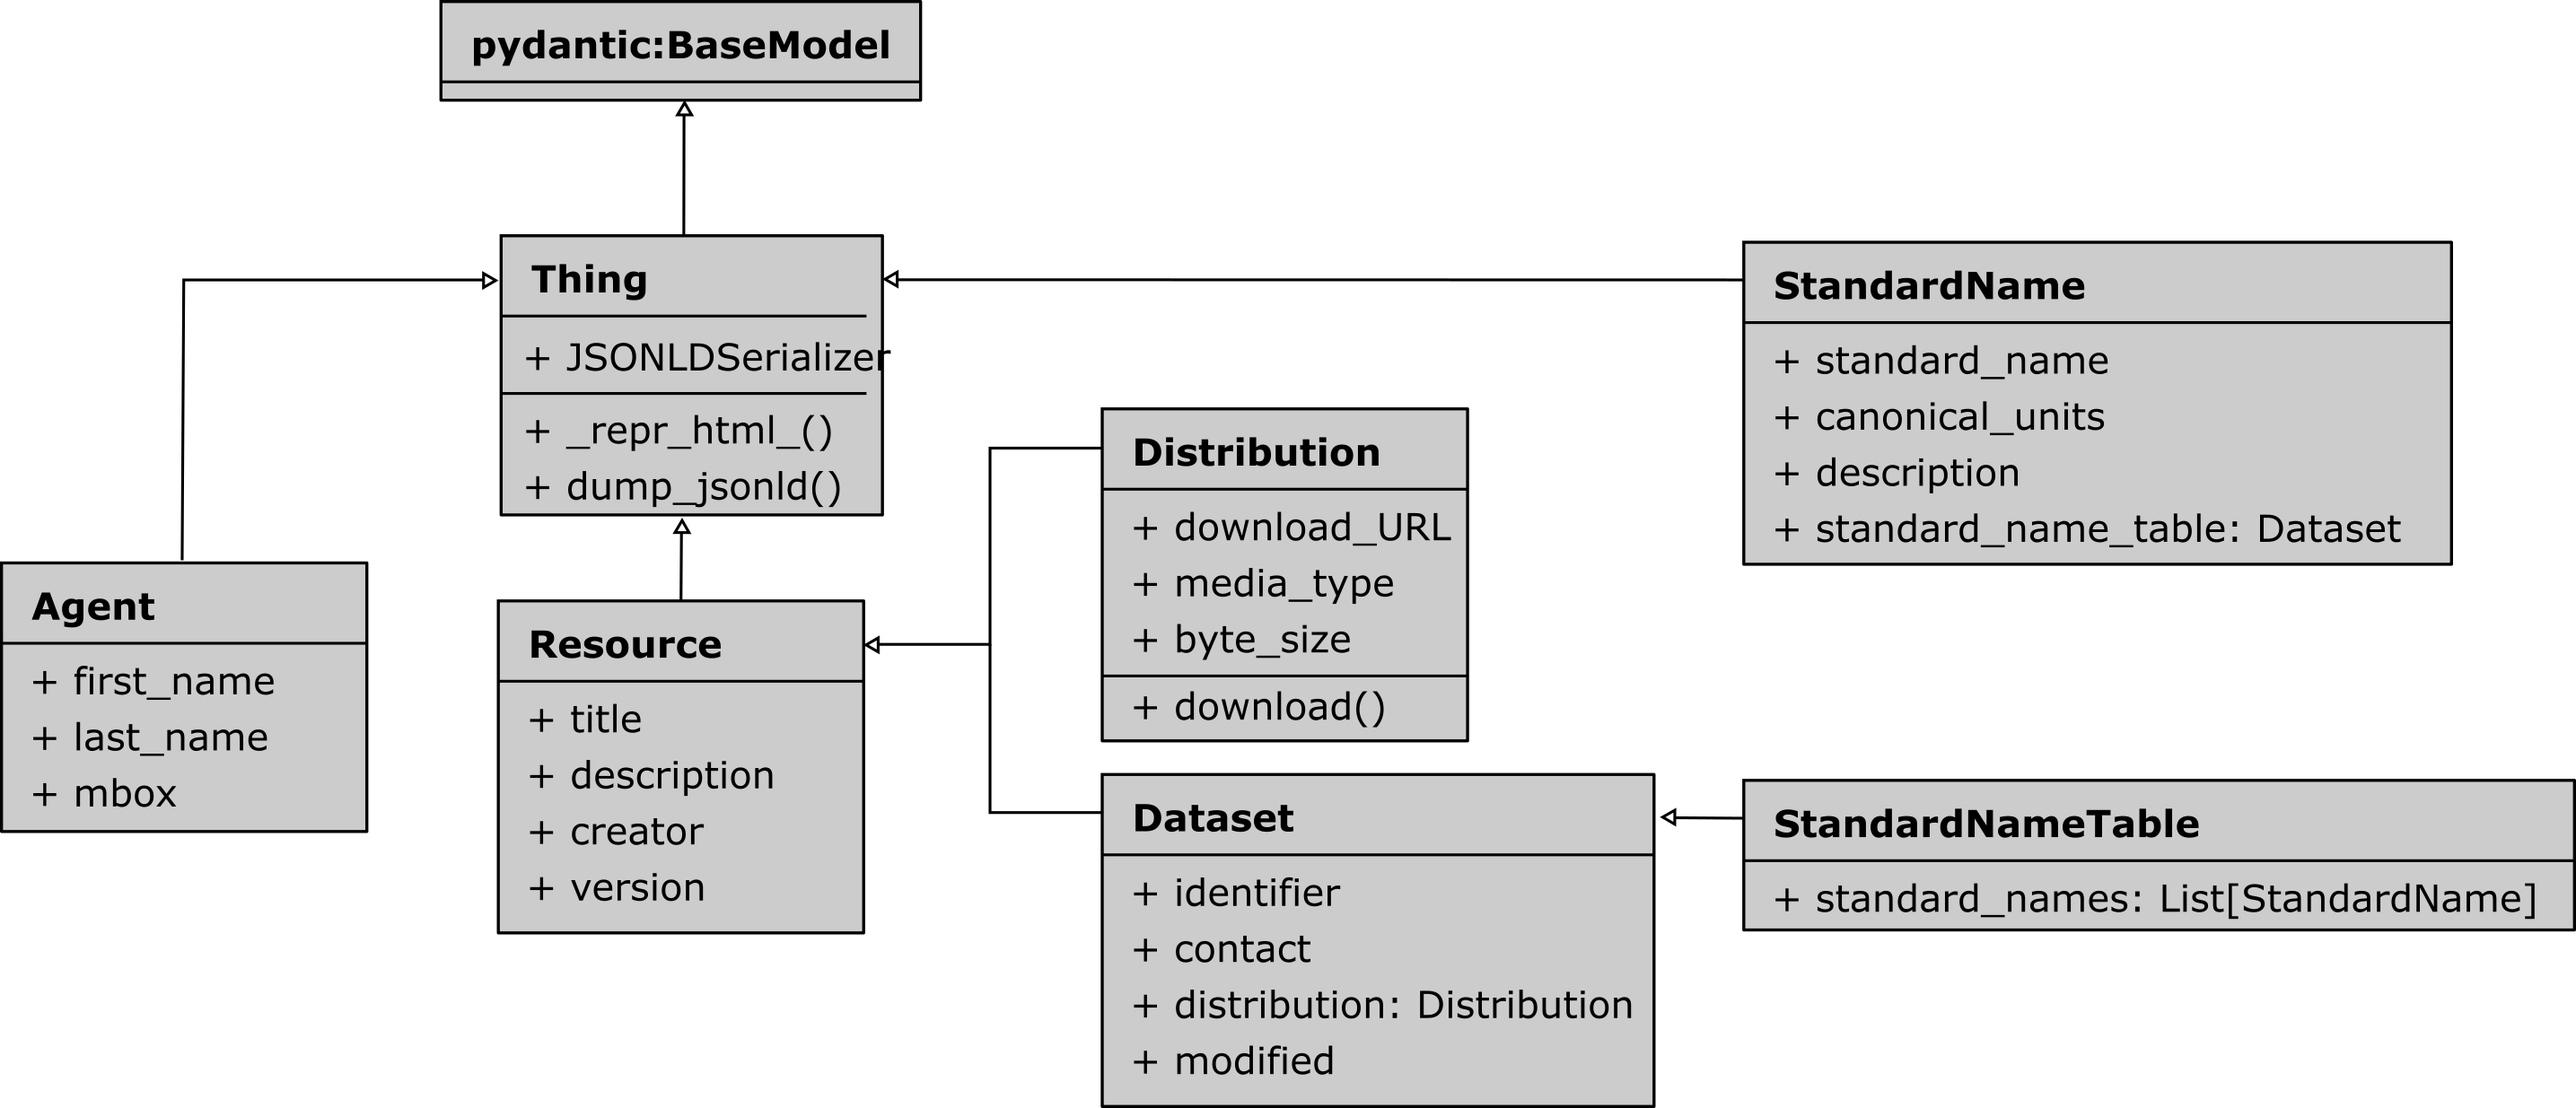
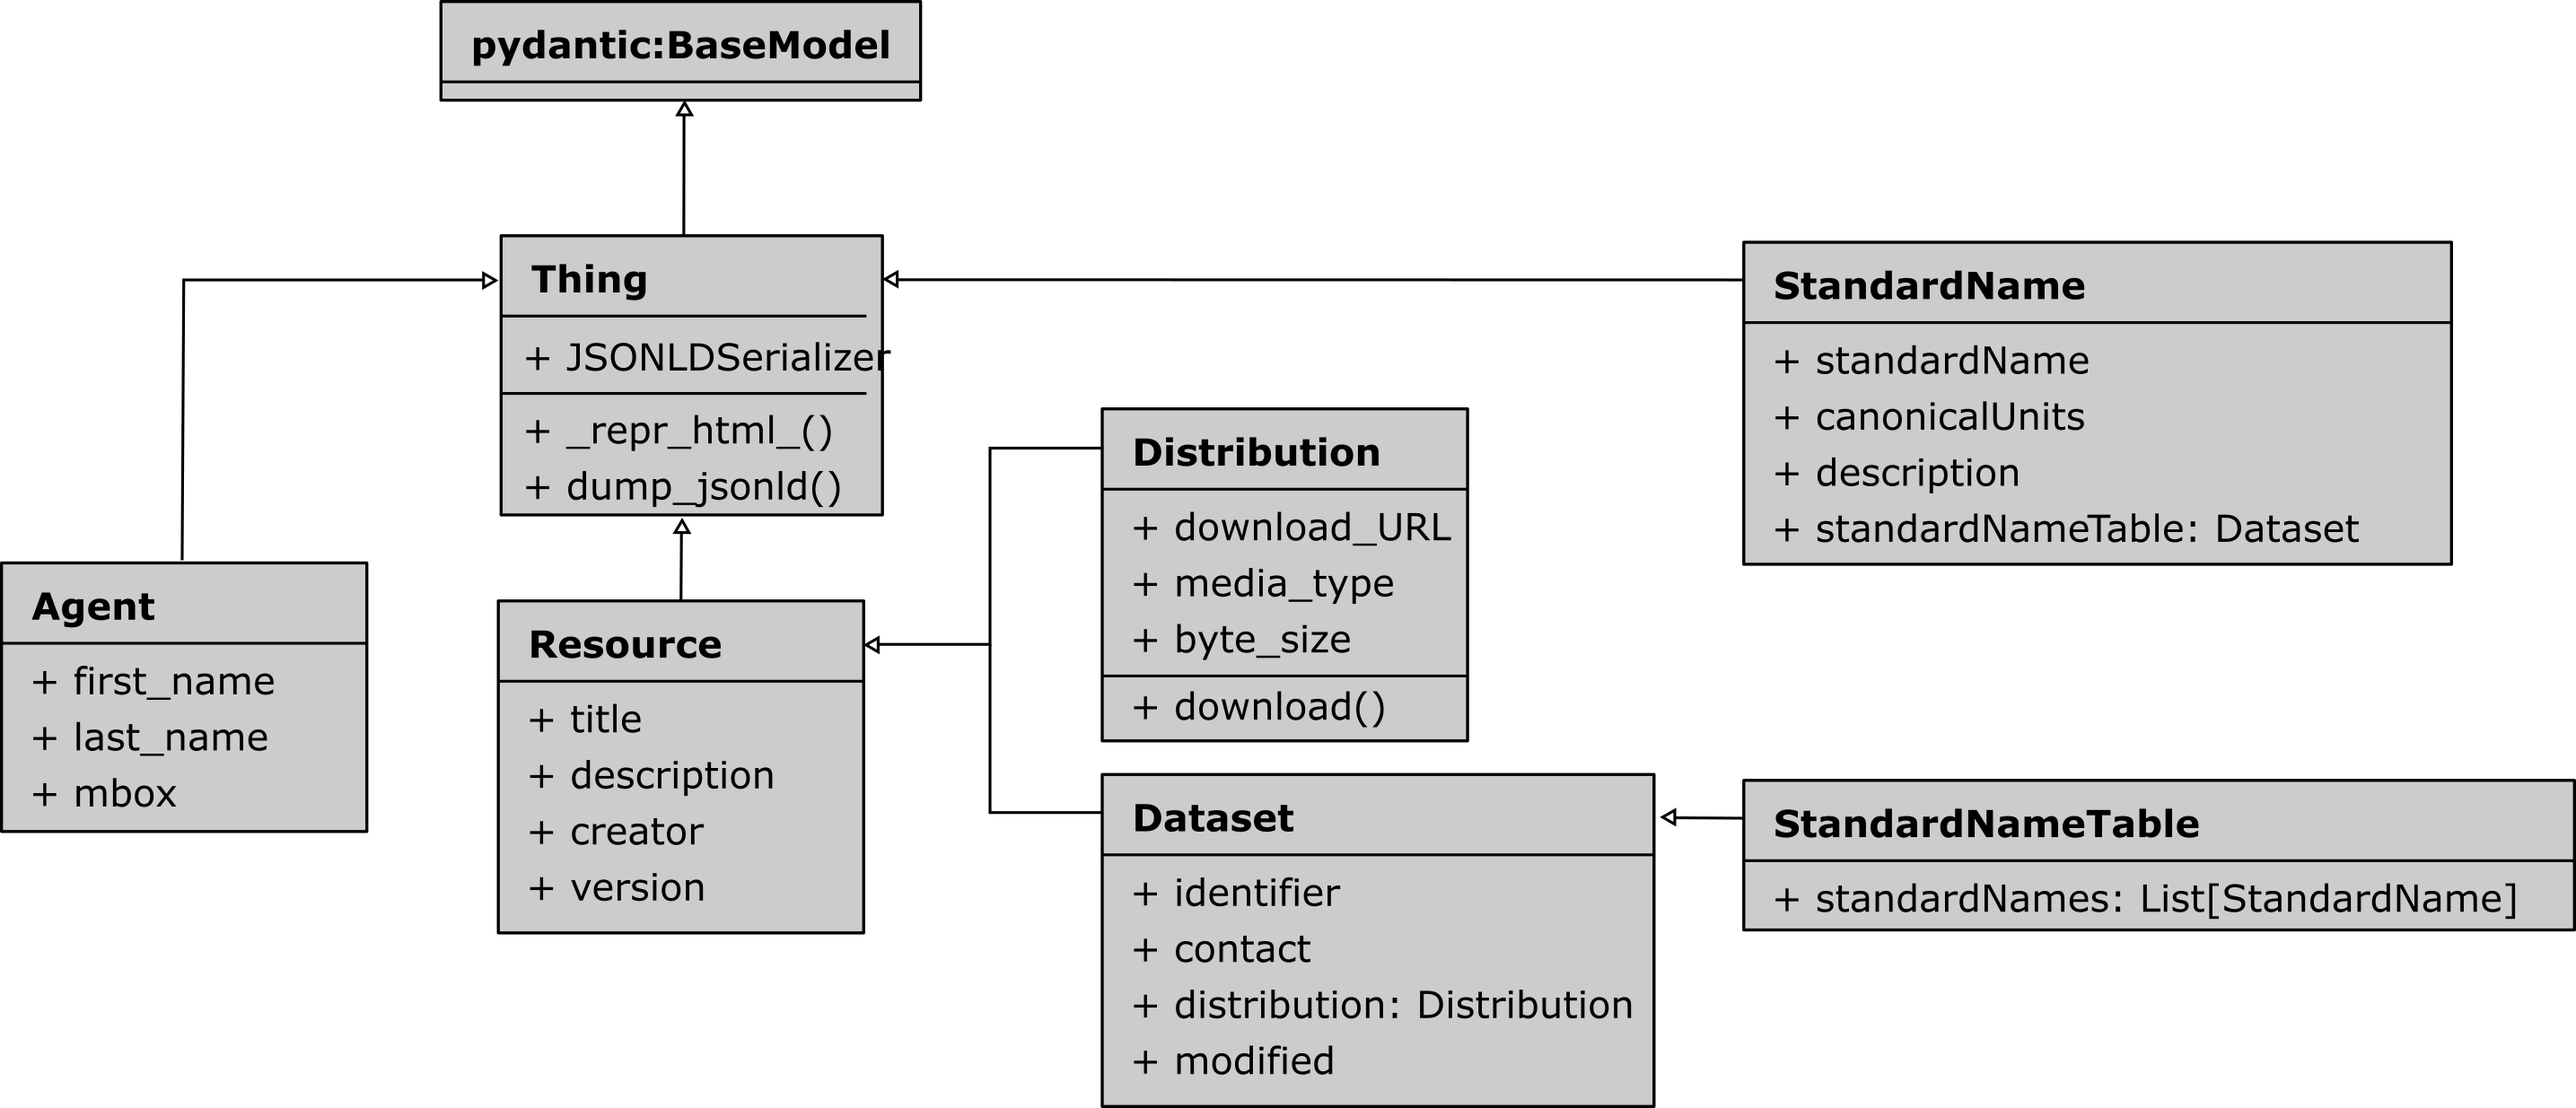
update field names

diff --git a/ssnolib/standard_name_table.py b/ssnolib/standard_name_table.py
@@ -110,7 +110,7 @@ class Transformation(StandardNameModification):
             dcterms="http://purl.org/dc/terms/")
 @urirefs(StandardNameTable='ssno:StandardNameTable',
          creator='dcterms:creator',
-         standard_names='ssno:standardNames',
+         standardNames='ssno:standardNames',
          hasModifier='ssno:hasModifier'
          )
 class StandardNameTable(Dataset):
@@ -128,7 +128,7 @@ class StandardNameTable(Dataset):
         Version of the Standard Name Table (dcat:version)
     identifier: str
         Identifier of the Standard Name Table, e.g. the DOI (dcterms:identifier)
-    standard_names: List[StandardName]
+    standardNames: List[StandardName]
         List of Standard Names (ssno:standardNames)
     """
     title: Optional[str] = None
@@ -136,7 +136,7 @@ class StandardNameTable(Dataset):
     description: Optional[str] = None
     identifier: Optional[str] = None
     creator: Optional[Union[Person, List[Person], Organization, List[Organization]]] = None
-    standard_names: List[StandardName] = Field(default=None, alias="standardNames")  # ssno:standardNames
+    standardNames: List[StandardName] = Field(default=None, alias="standardNames")  # ssno:standardNames
     hasModifier: List[Union[Qualification, Transformation]] = None
 
     def __str__(self) -> str:
@@ -210,16 +210,16 @@ class StandardNameTable(Dataset):
         qualifications.extend(transformations)
         return qualifications
 
-    @field_validator('standard_names', mode='before')
+    @field_validator('standardNames', mode='before')
     @classmethod
-    def _standard_names(cls, standard_names: Union[StandardName, List[StandardName]]) -> List[StandardName]:
-        if not isinstance(standard_names, list):
-            return [standard_names]
-        return standard_names
+    def _standard_names(cls, standardNames: Union[StandardName, List[StandardName]]) -> List[StandardName]:
+        if not isinstance(standardNames, list):
+            return [standardNames]
+        return standardNames
 
     def verify(self, standard_name: str):
         # todo: first some technical checks: must not start with a "_" etc.
-        str_standard_names = [sn.standardName for sn in self.standard_names]
+        str_standard_names = [sn.standardName for sn in self.standardNames]
         if standard_name in str_standard_names:
             return True
         regex_pattern = self.get_qualification_regex()
@@ -247,7 +247,7 @@ class StandardNameTable(Dataset):
         Union[StandardName, None]
             The standard name object if found, otherwise None
         """
-        for sn in self.standard_names:
+        for sn in self.standardNames:
             if sn.standardName == standard_name:
                 return sn
         return
@@ -331,10 +331,10 @@ class StandardNameTable(Dataset):
                         _modification.pop('id')
                         yaml_data['transformations'].append(_modification)
 
-            if self.standard_names:
-                yaml_data['standard_names'] = {}
-                for sn in self.standard_names:
-                    yaml_data['standard_names'][sn.standardName] = {'canonicalUnits': sn.canonicalUnits,
+            if self.standardNames:
+                yaml_data['standardNames'] = {}
+                for sn in self.standardNames:
+                    yaml_data['standardNames'][sn.standardName] = {'canonicalUnits': sn.canonicalUnits,
                                                                      'description': sn.description}
 
             # if self.locations:

diff --git a/ssnolib/plugins.py b/ssnolib/plugins.py
@@ -87,7 +87,7 @@ class XMLReader(TableReader):
                 name = sn['standard_name']
                 warnings.warn(f'Description of "{name}" is None. Setting to empty string.', UserWarning)
                 sn['description'] = ""
-        data['standard_names'] = sndata
+        data['standardNames'] = sndata
         return data
 
 
@@ -101,7 +101,7 @@ class YAMLReader(TableReader):
 
         with open(self.filename, 'r') as f:
             data = yaml.safe_load(f)
-        standard_names = data.get('standard_names', {})
+        standardNames = data.get('standardNames', {})
 
         def _parse_standard_names(name, sndata: Dict):
             for ustr in ('unit', 'units', 'canonical_unit'):
@@ -173,7 +173,7 @@ class YAMLReader(TableReader):
                      'version': data.get('version', None),
                      'description': data.get('description', None),
                      'identifier': data.get('identifier', None),
-                     'standard_names': [_parse_standard_names(k, v) for k, v in standard_names.items()]}
+                     'standardNames': [_parse_standard_names(k, v) for k, v in standardNames.items()]}
         if qualifications_dict:
             data_dict['hasModifier'] = list(qualifications_dict.values())
         if data.get('identifier', None):

diff --git a/ssnolib/namespace.py b/ssnolib/namespace.py
@@ -51,7 +51,7 @@ setattr(SSNO, "is_standard_name_of", SSNO.isStandardNameOf)
 setattr(SSNO, "positioned", SSNO.positioned)
 setattr(SSNO, "standard_name_table", SSNO.standardNameTable)
 setattr(SSNO, "standard_name_table_used_by", SSNO.standardNameTableUsedBy)
-setattr(SSNO, "standard_names", SSNO.standardNames)
+setattr(SSNO, "standardNames", SSNO.standardNames)
 setattr(SSNO, "uses_standard_name_table", SSNO.usesStandardNameTable)
 setattr(SSNO, "alters_unit", SSNO.altersUnit)
 setattr(SSNO, "ancillary_variables", SSNO.ancillaryVariables)

diff --git a/tests/test_classes.py b/tests/test_classes.py
@@ -108,8 +108,8 @@ class TestClasses(unittest.TestCase):
             overwrite_existing=True
         )
         snt_from_xml = snt.parse(table_filename, fmt='xml')
-        self.assertIsInstance(snt_from_xml.standard_names, list)
-        for sn in snt_from_xml.standard_names:
+        self.assertIsInstance(snt_from_xml.standardNames, list)
+        for sn in snt_from_xml.standardNames:
             self.assertIsInstance(sn, ssnolib.StandardName)
 
         snt_from_xml_dict = snt_from_xml.model_dump(exclude_none=True)
